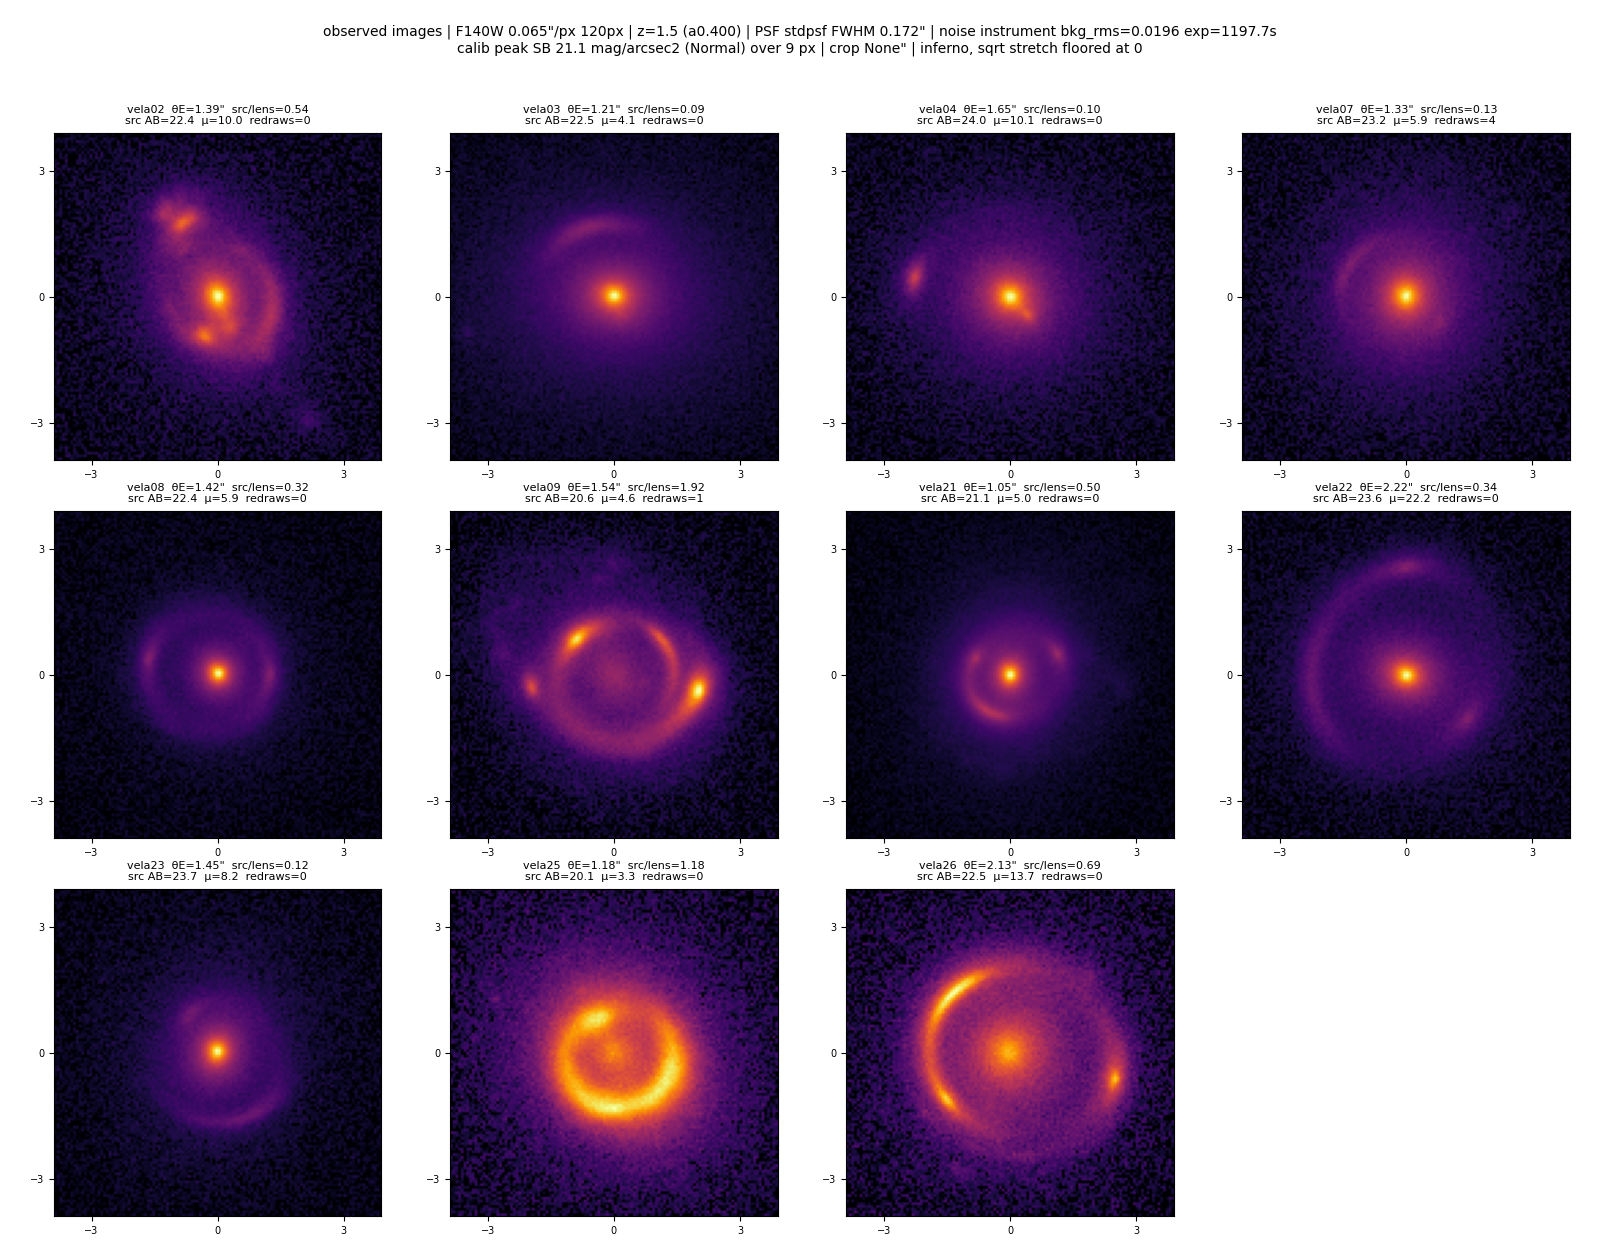
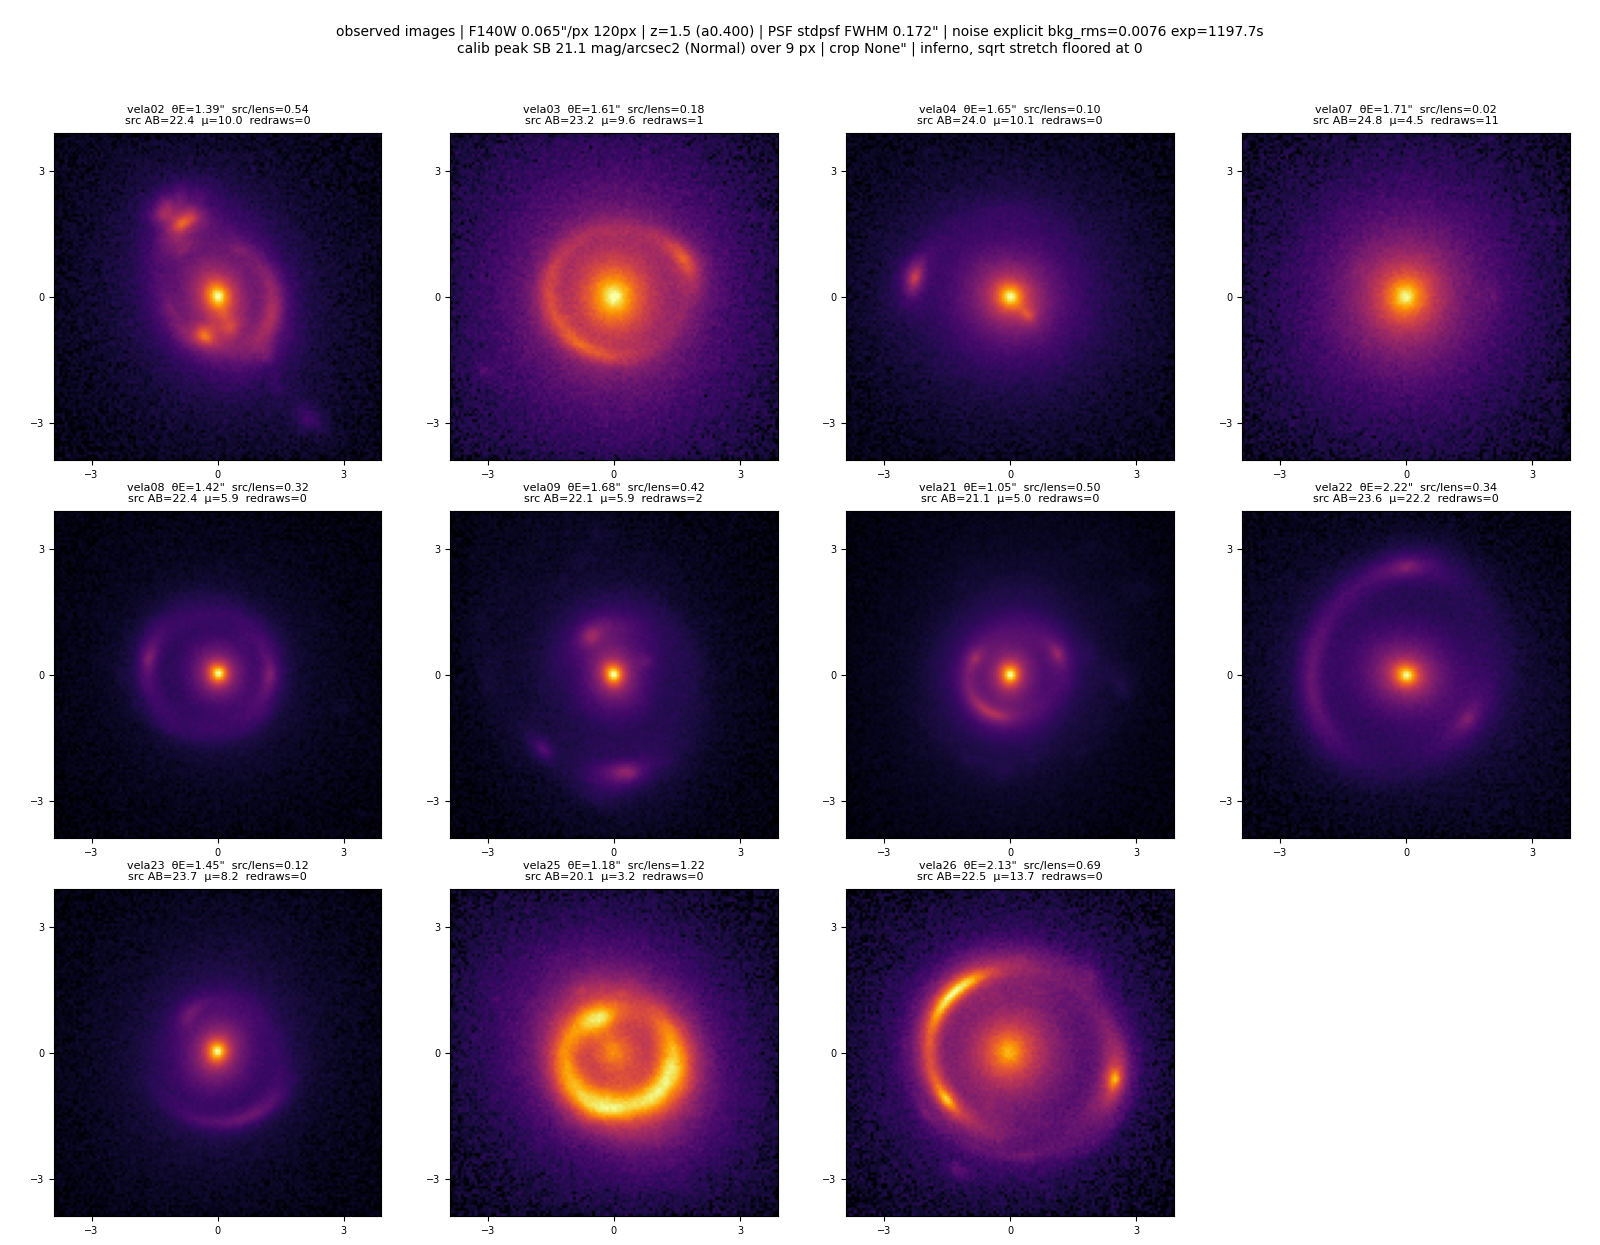
vela_simulated: DESI-238 noise level, supersample 32 truth render, inference_supersample knob
- noise: explicit background_rms 0.0076 cps/px (per-pixel rms of the real DESI-238
  F140W cutout, the value its real-data fit uses) and exp_time from its header;
  measured lag-1 noise autocorrelation 0.5-0.6 (drizzle) -> white-equivalent ~0.017,
  close to the earlier physical estimate; drizzle modelling logged as an extension.
- supersample 32 for the truth render: the VELA source pixels (0.0073") are finer
  than the 4x grid; measured up to 0.74 sigma of aliasing on vela02's arcs and a
  0.5 sigma lens-cusp shift between sub-grids (supersample_check.{py,png,json}).
- new inference_supersample (default = supersample) is what meta.json carries for
  the fitter; cutoff.canvas_supersample 8 for the check.
- both review sets regenerated; finding logged: with sigma 0.0076 the border rule
  selects faint draws for extended sources (vela07 accepted at a 3-sigma-faint target).
- lab log, README, test for the supersample split.

Claude-Session: https://claude.ai/code/session_01U1utULpjcbXb5xS4R2vAms

diff --git a/src/gigalens_research/simtests/experiments/vela_simulated.py b/src/gigalens_research/simtests/experiments/vela_simulated.py
@@ -34,8 +34,15 @@ Source selection / geometry
   vela_ids            list of sim IDs (default: the 12 standard).
   cam / filter / version   camera "12", HST filter "f814w", HLSP version "v3".
   n_reps              truth+noise realisations per source (default 1).
-  num_pix, supersample     output grid (default 200 px, supersample 4). Inference
-                      reads these back from meta.json so it always matches.
+  num_pix, supersample     output grid (default 200 px, supersample 4). ``supersample``
+                      is the TRUTH render (source + lens light + PSF). The VELA
+                      pristine sources have 0.007" pixels, so 4 sub-pixels per
+                      0.065" output pixel under-samples them (measured: up to 0.7
+                      sigma_bkg speckle on clumpy arcs; the lens Sersic cusp is
+                      the other offender); 32 leaves < 0.1 sigma everywhere.
+  inference_supersample  the ``supersample`` written to meta.json for the fitter
+                      (default: same as ``supersample``). Set it lower than the
+                      truth render so the likelihood does not inherit a 32x grid.
   delta_pix           output pixel scale (arcsec). Absent/null -> the mock's own
                       instrument pixel (TPIX header: 0.03" for the ACS mocks, 0.06"
                       for the WFC3/IR mocks). Set it to simulate a different
@@ -1109,6 +1116,10 @@ def generate_vela_simulated(spec: Any, dataset_dir: str, seed: int) -> None:
     n_reps = int(extra.get("n_reps", 1))
     num_pix = int(extra.get("num_pix", 200))  # physics-default-ok: documented structural default, persisted to meta.json
     supersample = int(extra.get("supersample", 4))  # physics-default-ok: documented structural default, persisted to meta.json
+    inference_supersample = extra.get("inference_supersample")  # physics-default-ok: None = same grid as the truth render (v2/v3 behaviour), persisted
+    inference_supersample = supersample if inference_supersample is None else int(inference_supersample)
+    if inference_supersample < 1:
+        raise ValueError("[vela_simulated] inference_supersample must be >= 1.")
     transpose_image = bool(extra.get("transpose_image", False))
     source_root = os.path.expanduser(str(extra.get("source_root", _DEFAULT_SOURCE_ROOT)))
     datadir = os.path.expanduser(str(extra.get("datadir", _DEFAULT_DATADIR)))
@@ -1290,7 +1301,7 @@ def generate_vela_simulated(spec: Any, dataset_dir: str, seed: int) -> None:
                 truth_x=truth,
                 delta_pix=delta_pix,
                 num_pix=num_pix,
-                supersample=supersample,
+                supersample=inference_supersample,
                 psf=np.asarray(psf),
                 noise_kind="forward",
                 background_rms=background_rms,
@@ -1337,7 +1348,8 @@ def generate_vela_simulated(spec: Any, dataset_dir: str, seed: int) -> None:
             "scale_factor": scale_factor,
             "source_variant": source_variant,
             "cam": cam, "filter": filt, "version": version, "n_reps": n_reps,
-            "num_pix": num_pix, "supersample": supersample, "transpose_image": transpose_image,
+            "num_pix": num_pix, "supersample": supersample,
+            "inference_supersample": inference_supersample, "transpose_image": transpose_image,
             "delta_pix": delta_pix, "delta_pix_source": delta_pix_source,
             "mock_instrument_pixel_arcsec": mock_pix,
             "likelihood_precision": likelihood_precision, "conv_precision": conv_precision,

diff --git a/src/gigalens_research/simtests/tests/vela_simulated_test.py b/src/gigalens_research/simtests/tests/vela_simulated_test.py
@@ -274,7 +274,8 @@ def test_end_to_end_synthetic_source():
         _write_synthetic_source(src_root, "vela99_cam12_a0.400_f814w")
         extra = {
             "scale_factor": "a0.400", "vela_ids": ["99"], "n_reps": 2,
-            "num_pix": 48, "supersample": 2, "source_root": src_root, "datadir": tmp,
+            "num_pix": 48, "supersample": 2, "inference_supersample": 1,
+            "source_root": src_root, "datadir": tmp,
             "delta_pix": 0.065,   # override the synthetic mock's 0.05" TPIX (drizzle scale)
             "source_crop_radius_arcsec": 1.0, "source_recenter": True,
             "psf": {"kind": "gaussian", "fwhm_arcsec": 0.1, "size_pix": 11},
@@ -294,6 +295,9 @@ def test_end_to_end_synthetic_source():
         assert ex["generator_version"] == 3 and ex["psf"]["kind"] == "gaussian"
         assert ex["delta_pix"] == 0.065 and ex["delta_pix_source"] == "config"
         assert ex["mock_instrument_pixel_arcsec"] == 0.05
+        # the truth is rendered at `supersample`; the fitter reads `inference_supersample`
+        assert ex["supersample"] == 2 and ex["inference_supersample"] == 1
+        assert System.load(ds, man["system_ids"][0]).supersample == 1
         assert ex["truth_prior"]["lens_mass"]["0"]["theta_E"]["median"] == 0.6
         assert ex["source_preprocessing"]["per_source"]["vela99"]["recenter"] is True
         for sid in man["system_ids"]:

diff --git a/docs/logs/vela-simulated-systems.md b/docs/logs/vela-simulated-systems.md
@@ -546,3 +546,132 @@ visible arcs.
 New page "Vela F140W Lens Set" (configuration + basis tags + open questions,
 no iteration history) replaces the design-review page as the group-facing
 document; the old page stays as the record of the iterations.
+
+## Config refinement: DESI-238 noise, supersample 32, tabled questions (2026-09-15, user answers)
+
+User answers to the five open questions of the "Vela F140W Lens Set" page, plus
+one new request (supersample 32 on the simulation "to be absolutely sure there
+are no finite-resolution artifacts in my observed data"):
+
+1. Sky / read noise: take them from the DESI-238 (Foundry V) data on disk; no
+   drizzle modelling now, note it as a possible extension.
+2. Lens light: no redshift dependence (the lens redshift is not set anywhere;
+   it is implicit in theta_E). Keep the single LogNormal.
+3. Sources / n_reps: tabled. First modelling passes use one or two simple
+   systems picked by eye from the review set to work out each source method.
+4. Per-system brightness draw: keep. Log the possibility that source structure
+   and overall brightness are correlated in real arcs (the independent draw
+   ignores it); tabled.
+5. Cut-off thresholds / selection against large theta_E: fine for now; no
+   change to the redraw procedure.
+
+### DESI-238 noise (measured; `data/desi238/cutout238b.npy`)
+
+There is no FITS file for DESI-238 anywhere under $HOME or $PSCRATCH (searched
+by name and by extension); the data on disk are the 120 x 120 float32 cutout
+`data/desi238/cutout238b.npy`, `psf94.npy` (27 px), and the notebook
+`experiments/real_systems/desi238/MCLMC_238.ipynb`, which records
+`background_rms = 0.007616` (photutils.background) and `exp_time = 1197.699`
+(header). User confirmed "it might just be a numpy cutout".
+
+| quantity | value | how |
+|---|---|---|
+| background rms, clipped, lens-light gradient removed (9 px median filter) | 0.0070 cps/px | r > 35/45/55 px, 3-sigma clipped; `tmp/cut238_noise.py` |
+| photutils value used by the real-data fit | 0.0076 cps/px | notebook |
+| noise autocorrelation lag (0,1) / (1,0) / (1,1) / (0,2) / (0,3) | 0.60 / 0.52 / 0.30 / 0.10 / -0.02 | residual after the median filter, r > 45 px, clipped mask |
+| white-noise-equivalent sigma (sum of the ACF over lags ~ 4.8) | ~0.017 cps/px | 0.0076 x sqrt(4.8) |
+| physical estimate (sky 21.8 + 3 x 15 e- RN + dark, `kind: instrument`) | 0.0196 cps/px | previous config |
+| total flux in the 7.8" cutout | 18.5 AB | ZP 26.453 |
+
+So the earlier sky/read-noise assumption was not far from the total variance;
+the factor 2.6 between it and the per-pixel rms is the drizzle correlation.
+Decision (user directive "reference the DESI-238 data"): `noise: {kind:
+explicit, background_rms: 0.0076, exp_time: 1197.7}` in both YAMLs — the number
+the real-data fit uses, so simulated and real per-pixel S/N match as the fitter
+sees them. Caveat, UNCERTIFIED as to its size for inference: white noise at
+0.0076 carries ~4.8x more information per area than the correlated real noise;
+the drizzle extension (generate at 0.13" and drizzle, or colour the noise to
+the measured ACF) is logged on the page as tabled question 4. The 9 px median
+filter slightly biases the ACF and the clipped rms (0.0070 vs 0.0076); the
+photutils value is used.
+
+### Supersample 32 (probe; `experiments/vela_f140w_v3/supersample_check.{py,png,json}`)
+
+Hypothesis: the VELA pristine sources have 0.0073" pixels, so the supersample-4
+render grid (0.016" sub-pixels) under-samples them. Prediction: |img(4) -
+img(32)| after PSF exceeds 0.1 sigma_238 along the arcs and is negligible in the
+lens light. Falsifier: < 0.1 sigma everywhere -> 32 is insurance only.
+Structural (a grid that cannot resolve the source), not fine-tuning.
+
+vela02 and vela22 rendered with their stored truths at 4/8/16/32 on the 120 px
+frame (the 4x render reproduces the stored noiseless image to 5e-7):
+
+| system | (4 − 32) max / rms / N > 0.1σ | (8 − 32) max | (16 − 32) max | 32x: time, peak RSS |
+|---|---|---|---|---|
+| vela02 (clumpy) | 0.74σ / 0.050σ / 525 px | 0.29σ | 0.06σ | 5–8 s, 3.5 GB |
+| vela22 (smooth) | 0.18σ / 0.008σ / 17 px | 0.51σ (one pixel at the lens centre) | 0.07σ | 5–9 s, 4.6 GB |
+
+Plot inspected first: the vela02 residual is a speckle pattern that traces the
+clumpy arcs (source-pixel aliasing, as predicted); vela22's arcs are fine at 4
+but the 8x grid puts 0.5 sigma in the central lens pixel — the Sersic cusp
+sampled at different sub-grid positions, the second finite-resolution effect.
+Both are < 0.08 sigma at 16 vs 32. Prediction held for the clumpy source; the
+cusp effect was not predicted. Flux differences are < 3e-4.
+
+Implementation: `supersample` is now the truth render only; new
+`inference_supersample` (default: same as `supersample`, so older configs are
+unchanged) is what `System.supersample`/meta.json carry for the fitter. Both
+YAMLs: `supersample: 32`, `inference_supersample: 4`, `cutoff.canvas_supersample:
+8` (numerics of the check). Test `test_end_to_end_synthetic_source` asserts the
+split. 22 tests pass; silent-defaults lint clean.
+
+### Regenerated review set (2026-09-15, noise 0.0076, supersample 32) — UNCERTIFIED
+
+Both sets regenerated (`--force`; ~10 min each on the login node CPU, ~5 GB).
+Comparison set (unlensed-mag route): 11 systems, 0 redraws, still no visible
+arcs. Main set: 11 systems, 14 redraws (vela07 11, vela09 2, vela03 1); outside
+≤ 6.7% (vela07), border ≤ 0.97σ (vela09). Plots inspected first
+(`dataset_{grid,gallery}.png`): arcs sharper at the lower noise, no
+source-plane edge, all arcs inside the frame; vela07 is a lens with an
+invisible source (see below).
+
+| system | θ_E | amp | src/lens | μ | outside | border | redraws | src AB unl | arcs AB | lens AB | peak SB |
+|---|---|---|---|---|---|---|---|---|---|---|---|
+| vela02 | 1.39 | 1.63 | 0.542 | 10.0 | 0.04% | 0.25σ | 0 | 22.41 | 19.91 | 19.24 | 20.52 |
+| vela03 | 1.61 | 0.50 | 0.177 | 9.6 | 0.05% | 0.14σ | 1 | 23.19 | 20.73 | 18.85 | 21.72 |
+| vela04 | 1.65 | 1.14 | 0.099 | 10.1 | 1.01% | 0.16σ | 0 | 24.03 | 21.53 | 19.02 | 20.92 |
+| vela07 | 1.71 | 0.02 | 0.024 | 4.5 | 6.69% | 0.25σ | 11 | 24.79 | 23.15 | 19.10 | 24.19 |
+| vela08 | 1.42 | 1.09 | 0.323 | 5.9 | 0.00% | 0.01σ | 0 | 22.40 | 20.47 | 19.24 | 21.04 |
+| vela09 | 1.68 | 0.42 | 0.416 | 5.9 | 1.91% | 0.97σ | 2 | 22.12 | 20.20 | 19.25 | 20.83 |
+| vela21 | 1.05 | 1.06 | 0.505 | 5.0 | 0.18% | 0.21σ | 0 | 21.15 | 19.39 | 18.65 | 19.97 |
+| vela22 | 2.22 | 0.20 | 0.343 | 22.2 | 0.27% | 0.21σ | 0 | 23.61 | 20.25 | 19.09 | 21.46 |
+| vela23 | 1.45 | 0.54 | 0.120 | 8.2 | 0.01% | 0.01σ | 0 | 23.72 | 21.44 | 19.14 | 21.82 |
+| vela25 | 1.18 | 5.02 | 1.219 | 3.2 | 0.02% | 0.40σ | 0 | 20.12 | 18.84 | 19.05 | 20.39 |
+| vela26 | 2.13 | 0.76 | 0.689 | 13.7 | 0.15% | 0.07σ | 0 | 22.45 | 19.61 | 19.20 | 20.36 |
+
+Same seeds as the previous set, so the systems with 0 redraws have the same
+truths; only the border rule changed (σ_bkg 0.0196 -> 0.0076 makes "border <
+1σ" 2.6x stricter), which is why vela03/07/09 moved.
+
+**Finding — the border rule now selects on brightness, not only on θ_E.**
+vela07's 11 rejections were all on the border rule (1.4σ–25σ at θ_E
+1.31–2.47); the accepted draw has θ_E 1.71, the same as rejected attempt 2
+(5.0σ), and passes at 0.25σ only because its peak-SB target landed at 24.19
+mag/□", a 3.1σ tail of Normal(21.1, 1.0) (20x fainter = 3.3 mag, matching the
+5.0σ -> 0.25σ ratio). For an extended source the loop therefore keeps waiting
+for a faint draw. vela07 is a lens-only image at src/lens 0.02. UNCERTIFIED as
+a general statement (one source, n=1 rep); the rejection records do not store
+the peak-SB target (a diagnostic-only generator change if wanted). Not acted
+on: the user has tabled the cut-off procedure and will start with one or two
+simple systems; the page's tabled question 3 now carries this. Options when it
+is revisited: a larger frame for extended sources, a border rule in absolute
+SB rather than σ, or dropping vela07 after all.
+
+Claims register additions:
+
+| claim | status | evidence |
+|---|---|---|
+| DESI-238 per-pixel background rms 0.0070–0.0076 cps/px; lag-1 noise autocorrelation 0.5–0.6 | MEASURED (one cutout) | `tmp/cut238_noise.py`, notebook value |
+| supersample 4 leaves up to 0.74 σ_238 of source-pixel aliasing on clumpy arcs; 16 vs 32 < 0.08σ | MEASURED (vela02, vela22) | `supersample_check.{png,json}` |
+| regenerated set: no edges, all arcs inside, 14 redraws / 11 systems | VERIFIED by inspection / MEASURED | `dataset_grid.png`, generation.json |
+| border rule at σ 0.0076 selects faint draws for extended sources (vela07 accepted at a 3.1σ-faint target) | UNCERTIFIED (n=1) | vela07 generation.json rejections |

diff --git a/src/gigalens_research/simtests/README.md b/src/gigalens_research/simtests/README.md
@@ -78,7 +78,7 @@ python -m gigalens_research.simtests status campaign.yaml
 | `hundred_sersic_v1` | `experiments/hundred_systems_GL2/campaign.yaml` | Convergence test: 100 EPL+Shear+Sérsic systems, MAP→SVI→HMC |
 | `shapelets_systematics_v1` | `experiments/shapelets_systematics/campaign.yaml` | Systematics: Vela sources, shapelet inference, sweep over `n_max` |
 | `vela_revised_v2` | `experiments/vela_revised_v2/campaign.yaml` | Fresh Vela systems simulated by the `vela_simulated` generator (scene API): YAML-tunable truth prior, STScI ePSF, instrument-derived noise, source-to-lens flux calibration, cut-off rejection |
-| `vela_f140w_v3` | `experiments/vela_f140w_v3/campaign.yaml` | Same generator at the DESI Strong Lens Foundry V setup (group decisions 2026-09-14): WFC3/IR F140W, 0.065"/px, 120 px, STDPSF WFC3IR, 1197.7 s, θ_E LogNormal(1.5, 0.25), source calibrated to the Foundry peak surface brightness (`peak_sb`); `campaign_unlensed_mag.yaml` = the magnification route No source crop (2026-09-15): VELA morphology as delivered; vela10 dropped; outside-flux limit 10% (border rule 1σ guards the arcs). |
+| `vela_f140w_v3` | `experiments/vela_f140w_v3/campaign.yaml` | Same generator at the DESI Strong Lens Foundry V setup (group decisions 2026-09-14): WFC3/IR F140W, 0.065"/px, 120 px, STDPSF WFC3IR, 1197.7 s, θ_E LogNormal(1.5, 0.25), source calibrated to the Foundry peak surface brightness (`peak_sb`); `campaign_unlensed_mag.yaml` = the magnification route No source crop (2026-09-15): VELA morphology as delivered; vela10 dropped; outside-flux limit 10% (border rule 1σ guards the arcs). Noise: white at the DESI-238 cutout's measured 0.0076 cps/px (drizzle correlation noted as an extension); truth rendered at supersample 32, `inference_supersample: 4` for the fitter. |
 
 ## Extending the framework
 
